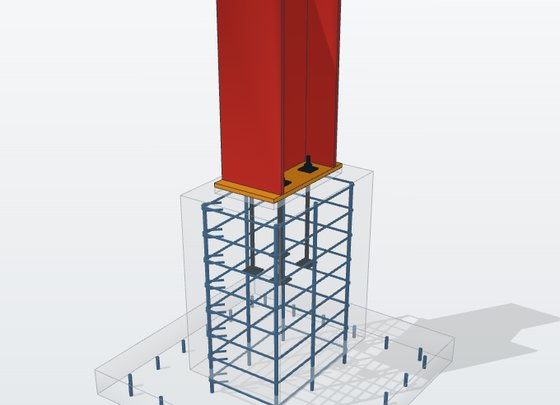
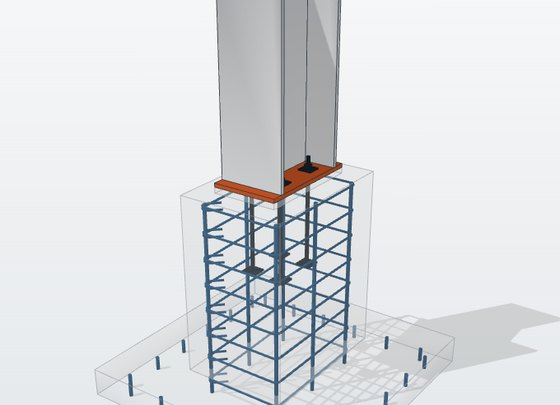
Restore conceptual connection style

Changed region(s): [[0.3643, 0.0, 0.6071, 0.5037]]

diff --git a/projects/steel-warehouse.html b/projects/steel-warehouse.html
@@ -126,16 +126,16 @@
       <ul><li>The shear lugs at the side columns now run across the frame, so they bear against the concrete in the direction of the 84 kN frame shear.</li><li>The splice end plates stand 10 mm proud of the flush flange, so the sloped flange is fully cut and welded to the plate.</li><li>The purlin cleats on the two gable frames have 4 bolts instead of 2. Two columns of bolts let the joint resist rotation on its own.</li><li>The pedestal ties continue down through the footing to just above the bottom mesh, holding the starter bars in place.</li></ul>
       <p class="hint">Select a connection to open it in 3D. Drag to rotate, scroll or pinch to zoom.</p>
       <div class="conns" id="conns">
-        <button type="button" class="conn" data-k="knee"><img src="img/conn/knee.jpg?v=4" alt="" width="560" height="405" loading="lazy"><span class="ct">Eave knee</span><span class="cd">Bolted end plate, 12 × M24</span><span class="cr">Max ratio 0.80</span></button>
-        <button type="button" class="conn" data-k="ridge"><img src="img/conn/ridge.jpg?v=4" alt="" width="560" height="405" loading="lazy"><span class="ct">Ridge and column cap</span><span class="cd">Extended end plates, 10 × M30</span><span class="cr">Max ratio 0.68</span></button>
-        <button type="button" class="conn" data-k="splice607"><img src="img/conn/splice607.jpg?v=4" alt="" width="560" height="405" loading="lazy"><span class="ct">Rafter splice at 6.07 m</span><span class="cd">Extended end plates, 8 × M24</span><span class="cr">Max ratio 0.36</span></button>
-        <button type="button" class="conn" data-k="splice1607"><img src="img/conn/splice1607.jpg?v=4" alt="" width="560" height="405" loading="lazy"><span class="ct">Rafter splice at 16.07 m</span><span class="cd">Extended end plates, 8 × M24</span><span class="cr">Max ratio 0.24</span></button>
-        <button type="button" class="conn" data-k="base_side"><img src="img/conn/base_side.jpg?v=4" alt="" width="560" height="405" loading="lazy"><span class="ct">Side column base</span><span class="cd">Shear lug across the frame</span><span class="cr">Max ratio 0.75</span></button>
-        <button type="button" class="conn" data-k="base_central"><img src="img/conn/base_central.jpg?v=4" alt="" width="560" height="405" loading="lazy"><span class="ct">Central column base</span><span class="cd">4 anchor rods, no uplift</span><span class="cr">Max ratio 0.10</span></button>
-        <button type="button" class="conn" data-k="base_gable"><img src="img/conn/base_gable.jpg?v=4" alt="" width="560" height="405" loading="lazy"><span class="ct">Gable column base</span><span class="cd">Shear on the anchor rods</span><span class="cr">Max ratio 0.65</span></button>
-        <button type="button" class="conn" data-k="purlin"><img src="img/conn/purlin.jpg?v=4" alt="" width="560" height="405" loading="lazy"><span class="ct">Purlin cleat, interior</span><span class="cd">Stiffened cleat, 2 × M16</span><span class="cr">Max ratio 0.41</span></button>
-        <button type="button" class="conn" data-k="purlin_gable"><img src="img/conn/purlin_gable.jpg?v=4" alt="" width="560" height="405" loading="lazy"><span class="ct">Purlin cleat, gable end</span><span class="cd">Stiffened cleat, 4 × M16</span><span class="cr">Max ratio 0.39</span></button>
-        <button type="button" class="conn" data-k="bracing"><img src="img/conn/bracing.jpg?v=4" alt="" width="560" height="405" loading="lazy"><span class="ct">Roof bracing</span><span class="cd">10 mm gusset, 2 × M20</span><span class="cr">Max ratio 0.10</span></button>
+        <button type="button" class="conn" data-k="knee"><img src="img/conn/knee.jpg?v=3" alt="" width="560" height="405" loading="lazy"><span class="ct">Eave knee</span><span class="cd">Bolted end plate, 12 × M24</span><span class="cr">Max ratio 0.80</span></button>
+        <button type="button" class="conn" data-k="ridge"><img src="img/conn/ridge.jpg?v=3" alt="" width="560" height="405" loading="lazy"><span class="ct">Ridge and column cap</span><span class="cd">Extended end plates, 10 × M30</span><span class="cr">Max ratio 0.68</span></button>
+        <button type="button" class="conn" data-k="splice607"><img src="img/conn/splice607.jpg?v=3" alt="" width="560" height="405" loading="lazy"><span class="ct">Rafter splice at 6.07 m</span><span class="cd">Extended end plates, 8 × M24</span><span class="cr">Max ratio 0.36</span></button>
+        <button type="button" class="conn" data-k="splice1607"><img src="img/conn/splice1607.jpg?v=3" alt="" width="560" height="405" loading="lazy"><span class="ct">Rafter splice at 16.07 m</span><span class="cd">Extended end plates, 8 × M24</span><span class="cr">Max ratio 0.24</span></button>
+        <button type="button" class="conn" data-k="base_side"><img src="img/conn/base_side.jpg?v=3" alt="" width="560" height="405" loading="lazy"><span class="ct">Side column base</span><span class="cd">Shear lug across the frame</span><span class="cr">Max ratio 0.75</span></button>
+        <button type="button" class="conn" data-k="base_central"><img src="img/conn/base_central.jpg?v=3" alt="" width="560" height="405" loading="lazy"><span class="ct">Central column base</span><span class="cd">4 anchor rods, no uplift</span><span class="cr">Max ratio 0.10</span></button>
+        <button type="button" class="conn" data-k="base_gable"><img src="img/conn/base_gable.jpg?v=3" alt="" width="560" height="405" loading="lazy"><span class="ct">Gable column base</span><span class="cd">Shear on the anchor rods</span><span class="cr">Max ratio 0.65</span></button>
+        <button type="button" class="conn" data-k="purlin"><img src="img/conn/purlin.jpg?v=3" alt="" width="560" height="405" loading="lazy"><span class="ct">Purlin cleat, interior</span><span class="cd">Stiffened cleat, 2 × M16</span><span class="cr">Max ratio 0.41</span></button>
+        <button type="button" class="conn" data-k="purlin_gable"><img src="img/conn/purlin_gable.jpg?v=3" alt="" width="560" height="405" loading="lazy"><span class="ct">Purlin cleat, gable end</span><span class="cd">Stiffened cleat, 4 × M16</span><span class="cr">Max ratio 0.39</span></button>
+        <button type="button" class="conn" data-k="bracing"><img src="img/conn/bracing.jpg?v=3" alt="" width="560" height="405" loading="lazy"><span class="ct">Roof bracing</span><span class="cd">10 mm gusset, 2 × M20</span><span class="cr">Max ratio 0.10</span></button>
       </div>
       <dialog class="cview" id="cview" aria-labelledby="cv-title">
         <div class="cv-head"><h3 id="cv-title"></h3><button type="button" class="cv-x" id="cv-close" aria-label="Close">×</button></div>
@@ -250,7 +250,7 @@ async function init(){if(T)return;
   ctl.addEventListener('start',()=>{ctl.autoRotate=false;});
   T={THREE,GLTFLoader,MeshoptDecoder,key,ground};
   new ResizeObserver(size).observe(stage);}
-const STY={m0:{c:0xd8dcdf},m1:{c:0xd8dcdf},m2:{c:0xd9342b},m3:{c:0x2e9e4a},m4:{c:0x3a5fd0},m5:{c:0x2fb8c9},m6:{c:0xff9a1f},m7:{c:0xff9a1f},m8:{c:0x5d646b},m9:{c:0x2e7d32},plate:{c:0xff9a1f},cleat:{c:0xff9a1f},gusset:{c:0xff9a1f},bolt:{c:0x1f2a33},concrete:{c:0xffffff,o:.22},rebar:{c:0x1d4e7a}};
+const STY={frame:{c:0xf2f3f4},plate:{c:0xe0602b},purlin:{c:0xd9dee2},cleat:{c:0xe0602b},bracing:{c:0x9aa6b2},gusset:{c:0xe0602b},bolt:{c:0x1f2a33},concrete:{c:0xffffff,o:.22},rebar:{c:0x1d4e7a}};
 function dress(THREE,root){root.traverse(o=>{if(!o.isMesh)return;let n=o;while(n&&!STY[n.name])n=n.parent;const st=STY[n?n.name:'plate'];
   o.material=new THREE.MeshLambertMaterial({color:st.c,side:THREE.DoubleSide,transparent:!!st.o,opacity:st.o||1,depthWrite:!st.o,polygonOffset:true,polygonOffsetFactor:1,polygonOffsetUnits:1});
   o.castShadow=!st.o;o.receiveShadow=!st.o;
@@ -262,7 +262,7 @@ async function show(i){idx=(i+ORDER.length)%ORDER.length;const k=ORDER[idx],c=C[
   document.getElementById('cv-data').innerHTML=c.r.map(([a,b])=>`<dt>${a}</dt><dd>${b}</dd>`).join('');
   msg.textContent='Loading…';msg.hidden=false;
   try{await init();size();const {THREE,GLTFLoader,MeshoptDecoder}=T;
-    const g=await new GLTFLoader().setMeshoptDecoder(MeshoptDecoder).loadAsync('model/conn/'+k+'.glb?v=2');
+    const g=await new GLTFLoader().setMeshoptDecoder(MeshoptDecoder).loadAsync('model/conn/'+k+'.glb?v=1');
     if(ORDER[idx]!==k)return;if(cur)S.remove(cur);cur=g.scene;dress(THREE,cur);S.add(cur);
     const b=new THREE.Box3().setFromObject(cur),ce=b.getCenter(new THREE.Vector3()),sz=b.getSize(new THREE.Vector3()).length();
     const {key,ground}=T;ground.position.set(ce.x,b.min.y-.002,ce.z);ground.scale.set(sz*4,sz*4,1);
